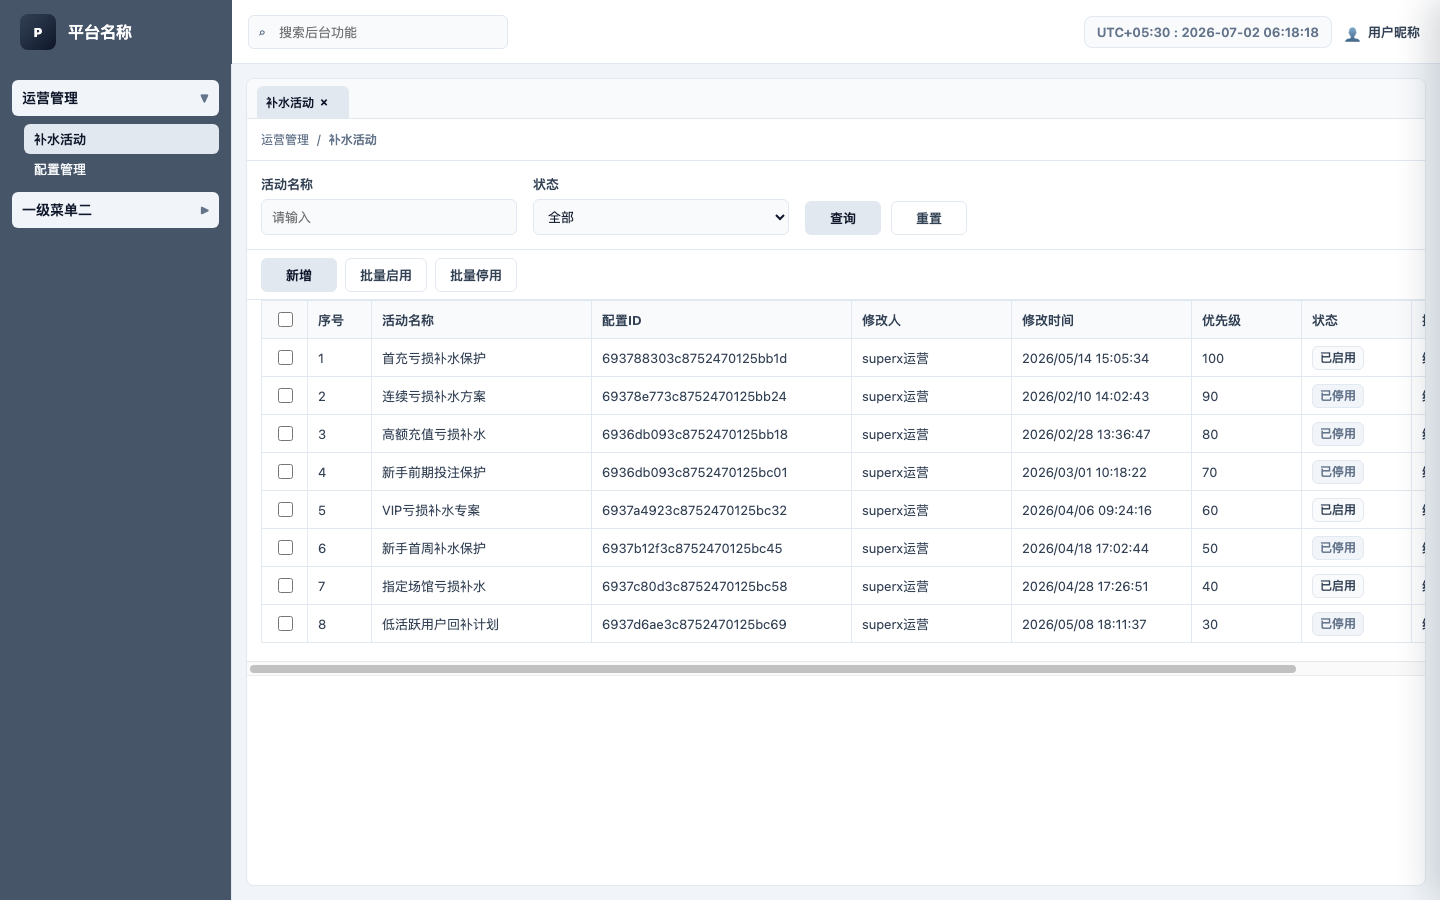
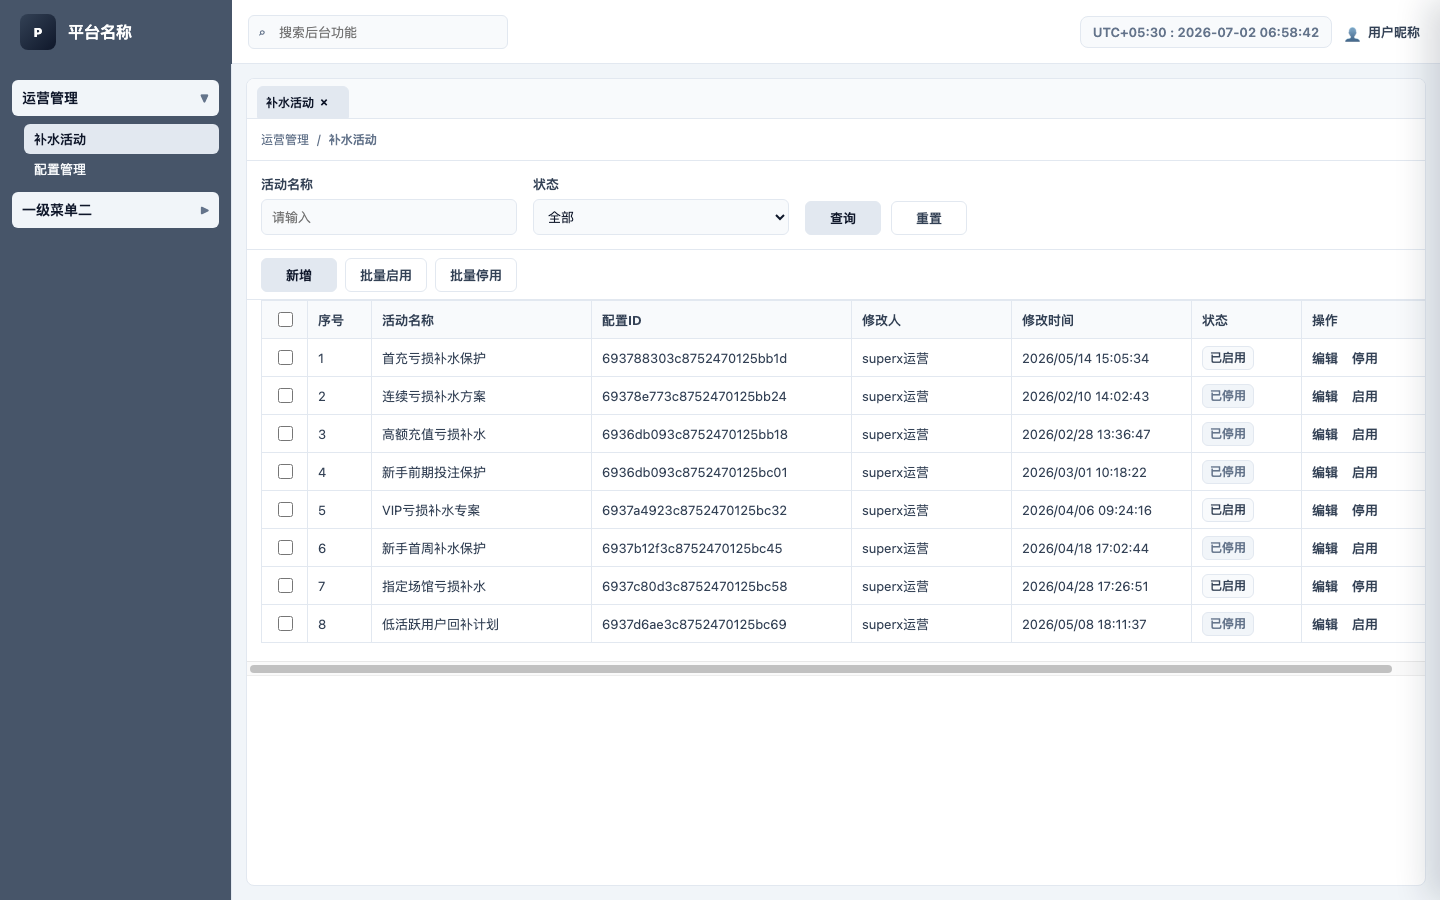
Refine Rescue_Bonus_Campaign configuration UI

diff --git a/Rescue_Bonus_Campaign/outputs/admin-config-replica.html b/Rescue_Bonus_Campaign/outputs/admin-config-replica.html
@@ -466,6 +466,10 @@
     .field-size-5 { grid-column: span 5; }
     .field-size-6 { grid-column: span 6; }
 
+    .field[hidden] {
+      display: none;
+    }
+
     .field label {
       display: block;
       margin-bottom: 6px;
@@ -890,6 +894,10 @@
       overflow: hidden;
     }
 
+    .rule-box.has-floating-tip {
+      overflow: visible;
+    }
+
     .rule-head {
       min-height: 38px;
       display: flex;
@@ -984,6 +992,10 @@
       padding: 0 12px;
     }
 
+    .subsidy-rule-table th.has-help {
+      overflow: visible;
+    }
+
     .subsidy-rule-table input {
       height: 32px;
       font-size: 13px;
@@ -1041,7 +1053,7 @@
       visibility: hidden;
       transform: translate(-50%, 4px);
       transition: opacity .18s ease, transform .18s ease, visibility .18s ease;
-      z-index: 20;
+      z-index: 1000;
       pointer-events: none;
     }
 
@@ -1502,20 +1514,19 @@
                 <th style="width: 260px;">配置ID</th>
                 <th style="width: 160px;">修改人</th>
                 <th style="width: 180px;">修改时间</th>
-                <th style="width: 110px;">优先级</th>
                 <th style="width: 110px;">状态</th>
                 <th style="width: 140px;">操作</th>
               </tr>
             </thead>
             <tbody>
-              <tr data-status="enabled"><td class="select-cell"><input class="row-check" type="checkbox" aria-label="选择第 1 行"></td><td>1</td><td>首充亏损补水保护</td><td>693788303c8752470125bb1d</td><td>superx运营</td><td>2026/05/14 15:05:34</td><td>100</td><td><span class="status-pill">已启用</span></td><td><div class="row-actions"><button class="action-link edit-row" type="button">编辑</button><button class="action-link toggle-status" type="button">停用</button></div></td></tr>
-              <tr data-status="disabled"><td class="select-cell"><input class="row-check" type="checkbox" aria-label="选择第 2 行"></td><td>2</td><td>连续亏损补水方案</td><td>69378e773c8752470125bb24</td><td>superx运营</td><td>2026/02/10 14:02:43</td><td>90</td><td><span class="status-pill is-disabled">已停用</span></td><td><div class="row-actions"><button class="action-link edit-row" type="button">编辑</button><button class="action-link toggle-status" type="button">启用</button></div></td></tr>
-              <tr data-status="disabled"><td class="select-cell"><input class="row-check" type="checkbox" aria-label="选择第 3 行"></td><td>3</td><td>高额充值亏损补水</td><td>6936db093c8752470125bb18</td><td>superx运营</td><td>2026/02/28 13:36:47</td><td>80</td><td><span class="status-pill is-disabled">已停用</span></td><td><div class="row-actions"><button class="action-link edit-row" type="button">编辑</button><button class="action-link toggle-status" type="button">启用</button></div></td></tr>
-              <tr data-status="disabled"><td class="select-cell"><input class="row-check" type="checkbox" aria-label="选择第 4 行"></td><td>4</td><td>新手前期投注保护</td><td>6936db093c8752470125bc01</td><td>superx运营</td><td>2026/03/01 10:18:22</td><td>70</td><td><span class="status-pill is-disabled">已停用</span></td><td><div class="row-actions"><button class="action-link edit-row" type="button">编辑</button><button class="action-link toggle-status" type="button">启用</button></div></td></tr>
-              <tr data-status="enabled"><td class="select-cell"><input class="row-check" type="checkbox" aria-label="选择第 5 行"></td><td>5</td><td>VIP亏损补水专案</td><td>6937a4923c8752470125bc32</td><td>superx运营</td><td>2026/04/06 09:24:16</td><td>60</td><td><span class="status-pill">已启用</span></td><td><div class="row-actions"><button class="action-link edit-row" type="button">编辑</button><button class="action-link toggle-status" type="button">停用</button></div></td></tr>
-              <tr data-status="disabled"><td class="select-cell"><input class="row-check" type="checkbox" aria-label="选择第 6 行"></td><td>6</td><td>新手首周补水保护</td><td>6937b12f3c8752470125bc45</td><td>superx运营</td><td>2026/04/18 17:02:44</td><td>50</td><td><span class="status-pill is-disabled">已停用</span></td><td><div class="row-actions"><button class="action-link edit-row" type="button">编辑</button><button class="action-link toggle-status" type="button">启用</button></div></td></tr>
-              <tr data-status="enabled"><td class="select-cell"><input class="row-check" type="checkbox" aria-label="选择第 7 行"></td><td>7</td><td>指定场馆亏损补水</td><td>6937c80d3c8752470125bc58</td><td>superx运营</td><td>2026/04/28 17:26:51</td><td>40</td><td><span class="status-pill">已启用</span></td><td><div class="row-actions"><button class="action-link edit-row" type="button">编辑</button><button class="action-link toggle-status" type="button">停用</button></div></td></tr>
-              <tr data-status="disabled"><td class="select-cell"><input class="row-check" type="checkbox" aria-label="选择第 8 行"></td><td>8</td><td>低活跃用户回补计划</td><td>6937d6ae3c8752470125bc69</td><td>superx运营</td><td>2026/05/08 18:11:37</td><td>30</td><td><span class="status-pill is-disabled">已停用</span></td><td><div class="row-actions"><button class="action-link edit-row" type="button">编辑</button><button class="action-link toggle-status" type="button">启用</button></div></td></tr>
+              <tr data-status="enabled"><td class="select-cell"><input class="row-check" type="checkbox" aria-label="选择第 1 行"></td><td>1</td><td>首充亏损补水保护</td><td>693788303c8752470125bb1d</td><td>superx运营</td><td>2026/05/14 15:05:34</td><td><span class="status-pill">已启用</span></td><td><div class="row-actions"><button class="action-link edit-row" type="button">编辑</button><button class="action-link toggle-status" type="button">停用</button></div></td></tr>
+              <tr data-status="disabled"><td class="select-cell"><input class="row-check" type="checkbox" aria-label="选择第 2 行"></td><td>2</td><td>连续亏损补水方案</td><td>69378e773c8752470125bb24</td><td>superx运营</td><td>2026/02/10 14:02:43</td><td><span class="status-pill is-disabled">已停用</span></td><td><div class="row-actions"><button class="action-link edit-row" type="button">编辑</button><button class="action-link toggle-status" type="button">启用</button></div></td></tr>
+              <tr data-status="disabled"><td class="select-cell"><input class="row-check" type="checkbox" aria-label="选择第 3 行"></td><td>3</td><td>高额充值亏损补水</td><td>6936db093c8752470125bb18</td><td>superx运营</td><td>2026/02/28 13:36:47</td><td><span class="status-pill is-disabled">已停用</span></td><td><div class="row-actions"><button class="action-link edit-row" type="button">编辑</button><button class="action-link toggle-status" type="button">启用</button></div></td></tr>
+              <tr data-status="disabled"><td class="select-cell"><input class="row-check" type="checkbox" aria-label="选择第 4 行"></td><td>4</td><td>新手前期投注保护</td><td>6936db093c8752470125bc01</td><td>superx运营</td><td>2026/03/01 10:18:22</td><td><span class="status-pill is-disabled">已停用</span></td><td><div class="row-actions"><button class="action-link edit-row" type="button">编辑</button><button class="action-link toggle-status" type="button">启用</button></div></td></tr>
+              <tr data-status="enabled"><td class="select-cell"><input class="row-check" type="checkbox" aria-label="选择第 5 行"></td><td>5</td><td>VIP亏损补水专案</td><td>6937a4923c8752470125bc32</td><td>superx运营</td><td>2026/04/06 09:24:16</td><td><span class="status-pill">已启用</span></td><td><div class="row-actions"><button class="action-link edit-row" type="button">编辑</button><button class="action-link toggle-status" type="button">停用</button></div></td></tr>
+              <tr data-status="disabled"><td class="select-cell"><input class="row-check" type="checkbox" aria-label="选择第 6 行"></td><td>6</td><td>新手首周补水保护</td><td>6937b12f3c8752470125bc45</td><td>superx运营</td><td>2026/04/18 17:02:44</td><td><span class="status-pill is-disabled">已停用</span></td><td><div class="row-actions"><button class="action-link edit-row" type="button">编辑</button><button class="action-link toggle-status" type="button">启用</button></div></td></tr>
+              <tr data-status="enabled"><td class="select-cell"><input class="row-check" type="checkbox" aria-label="选择第 7 行"></td><td>7</td><td>指定场馆亏损补水</td><td>6937c80d3c8752470125bc58</td><td>superx运营</td><td>2026/04/28 17:26:51</td><td><span class="status-pill">已启用</span></td><td><div class="row-actions"><button class="action-link edit-row" type="button">编辑</button><button class="action-link toggle-status" type="button">停用</button></div></td></tr>
+              <tr data-status="disabled"><td class="select-cell"><input class="row-check" type="checkbox" aria-label="选择第 8 行"></td><td>8</td><td>低活跃用户回补计划</td><td>6937d6ae3c8752470125bc69</td><td>superx运营</td><td>2026/05/08 18:11:37</td><td><span class="status-pill is-disabled">已停用</span></td><td><div class="row-actions"><button class="action-link edit-row" type="button">编辑</button><button class="action-link toggle-status" type="button">启用</button></div></td></tr>
             </tbody>
           </table>
         </div>
@@ -1530,11 +1541,19 @@
       <button class="icon-close" id="closeDrawerButton" type="button">×</button>
     </div>
     <div class="drawer-body">
-      <div class="context-note">适用条件：用户没有第一次提现时。配置逻辑：系统先校验累计可补次数、限定对象、首充后 N 天和游戏范围等触发限制，再按用户首充金额匹配充值区间；当用户余额达到对应触发余额时，按区间配置补水到用户钱包；发放后的补水礼金需满足打码倍率后才可提现。</div>
+      <div class="context-note">适用条件：用户没有第一次提现时。配置逻辑：系统先校验参与条件、累计可补次数、首充后 N 天和游戏范围等触发限制，再按用户累计充值金额匹配充值区间；当用户余额达到对应触发余额时，按区间配置补水到用户钱包；发放后的补水礼金需满足打码倍率后才可提现。</div>
       <div class="section-title">基本信息</div>
       <div class="form-grid">
         <div class="field"><label class="required">活动名称</label><input id="drawerConfigName" value="首充亏损补水保护"></div>
-        <div class="field"><label class="required">用户参与优先级<span class="summary-hint">数值越大用户参与优先级越高</span></label><input id="drawerPriority" value="100"></div>
+        <div class="field"><label class="required">礼金倍率</label><div class="unit-input"><input value="10.00"><span class="unit">倍</span></div></div>
+        <div class="field"><label class="required">礼金使用范围</label><select id="bonusScopeSelect"><option selected>无限制</option><option>指定场馆</option><option>指定游戏</option></select></div>
+        <div class="field" id="bonusScopeValueField" hidden>
+          <label class="required">使用范围值</label>
+          <div class="multi-select" id="bonusScopeValueMulti">
+            <button class="multi-trigger" id="bonusScopeValueTrigger" type="button">请选择</button>
+            <div class="multi-menu" id="bonusScopeValueMenu"></div>
+          </div>
+        </div>
       </div>
 
       <div class="section-title">参与条件</div>
@@ -1572,7 +1591,7 @@
       </div>
 
       <div class="section-title">规则配置</div>
-      <div class="rule-box">
+      <div class="rule-box has-floating-tip">
         <div class="rule-body">
           <div class="rule-subtitle">基础规则配置</div>
           <div class="rule-summary">
@@ -1583,14 +1602,6 @@
             <div class="rule-summary-item">
               <label class="required">累计可补次数</label>
               <div class="unit-input"><input value="5"><span class="unit">次</span></div>
-            </div>
-            <div class="rule-summary-item">
-              <label class="required">礼金倍率</label>
-              <div class="unit-input"><input value="10.00"><span class="unit">倍</span></div>
-            </div>
-            <div class="rule-summary-item">
-              <label class="required">限定对象</label>
-              <select><option>单一用户ID</option><option>单一IP</option><option>单一设备</option></select>
             </div>
             <div class="rule-summary-item">
               <label class="required">游戏范围</label>
@@ -1609,7 +1620,7 @@
             <thead>
               <tr>
                 <th style="width: 210px;">充值区间<span class="th-hint">（【最小值】≤【X】＜【最大值】）</span></th>
-                <th style="width: 120px;">触发余额<span class="help-tip" tabindex="0" data-tip="触发余额指的是用户的锁定钱包和可提现钱包的和，且需要考虑游戏范围，非指定产生的消耗导致的余额低于配置，则不命中规则。">?</span></th>
+                <th class="has-help" style="width: 120px;">触发余额<span class="help-tip" tabindex="0" data-tip="触发余额指的是用户的锁定钱包和可提现钱包的和，且需要考虑游戏范围，非指定产生的消耗导致的余额低于配置，则不命中规则。">?</span></th>
                 <th style="width: 120px;">补水金额</th>
                 <th style="width: 100px;">可补次数</th>
                 <th style="width: 70px;">操作</th>
@@ -1883,10 +1894,55 @@
       button.addEventListener("click", () => {
         const cells = button.closest("tr").children;
         document.getElementById("drawerConfigName").value = cells[2].textContent.trim();
-        document.getElementById("drawerPriority").value = cells[6].textContent.trim();
         openDrawer();
       });
     });
+    const bonusScopeSelect = document.getElementById("bonusScopeSelect");
+    const bonusScopeValueField = document.getElementById("bonusScopeValueField");
+    const bonusScopeValueMulti = document.getElementById("bonusScopeValueMulti");
+    const bonusScopeValueTrigger = document.getElementById("bonusScopeValueTrigger");
+    const bonusScopeValueMenu = document.getElementById("bonusScopeValueMenu");
+    const bonusScopeValueMap = {
+      "指定场馆": ["Slot", "Casino", "Fishing", "Fantasy", "Sports"],
+      "指定游戏": ["Fortune Tiger", "Mines", "Aviator", "Super Ace", "Dragon Hatch"]
+    };
+    function selectedBonusScopeValues() {
+      return Array.from(bonusScopeValueMenu.querySelectorAll("input:checked")).map(input => input.value);
+    }
+    function syncBonusScopeSummary() {
+      const selected = selectedBonusScopeValues();
+      bonusScopeValueTrigger.textContent = selected.length <= 2 ? selected.join("、") : `${selected.slice(0, 2).join("、")} +${selected.length - 2}`;
+      bonusScopeValueTrigger.title = selected.join("、");
+    }
+    function renderBonusScopeValues() {
+      const values = bonusScopeValueMap[bonusScopeSelect.value] || [];
+      bonusScopeValueField.hidden = values.length === 0;
+      bonusScopeValueMenu.innerHTML = "";
+      values.forEach((value, index) => {
+        const label = document.createElement("label");
+        label.className = "multi-option";
+        label.innerHTML = `<input type="checkbox" value="${value}" ${index === 0 ? "checked" : ""}> <span>${value}</span>`;
+        bonusScopeValueMenu.appendChild(label);
+      });
+      if (!values.length) {
+        bonusScopeValueTrigger.textContent = "请选择";
+        bonusScopeValueTrigger.title = "";
+        bonusScopeValueMulti.classList.remove("is-open");
+        return;
+      }
+      syncBonusScopeSummary();
+    }
+    bonusScopeSelect.addEventListener("change", renderBonusScopeValues);
+    bonusScopeValueTrigger.addEventListener("click", event => {
+      event.stopPropagation();
+      bonusScopeValueMulti.classList.toggle("is-open");
+    });
+    bonusScopeValueMenu.addEventListener("click", event => event.stopPropagation());
+    bonusScopeValueMenu.addEventListener("change", syncBonusScopeSummary);
+    document.addEventListener("click", event => {
+      if (!event.target.closest("#bonusScopeValueMulti")) bonusScopeValueMulti.classList.remove("is-open");
+    });
+    renderBonusScopeValues();
     const gameScopeSelect = document.getElementById("gameScopeSelect");
     const gameScopeValueMulti = document.getElementById("gameScopeValueMulti");
     const gameScopeValueTrigger = document.getElementById("gameScopeValueTrigger");

diff --git a/Rescue_Bonus_Campaign/work/admin-visual-generation-skill-draft.md b/Rescue_Bonus_Campaign/work/admin-visual-generation-skill-draft.md
@@ -186,6 +186,7 @@
 - 右侧抽屉默认关闭，不在首屏自动展开；只有用户点击新增、编辑等明确触发操作后才打开。
 - 抽屉表单默认按四个一级区块拆分：基本信息、参与条件、规则配置、前台展示；具体字段优先映射到这四类，不随意新增一级类目。
 - 参与资格、开关和条件矩阵归入参与条件；策略、阈值、倍率、次数、范围、区间矩阵归入规则配置；客户端展示名称、多语言、宣传文案、展示素材归入前台展示。
+- 用户标签、风险排除、会员资格等用于判断用户是否可参与的对象条件，应放入参与条件矩阵；不要在规则配置中重复做“限定对象”类基础字段。
 - 同一规则块内部若同时包含整体规则和明细参数，应拆成轻量小模块标题，例如基础规则配置、区间参数配置，不额外套大卡片。
 - 表单字段使用两列网格优先，复杂字段、说明、富文本、图片预览等使用整行。
 - 必填字段用灰阶星号或必填标识，不引入彩色提示。
@@ -193,7 +194,9 @@
 - 当页面存在全局适用前提、参与资格或规则范围时，应在基础信息上方用克制提示条展示，避免把前提散落到多个字段里。
 - 当配置逻辑涉及适用对象、触发条件、执行结果和限制条件时，可在顶部提示条中用一段简洁说明串联完整逻辑，帮助用户先理解配置如何生效；skill 记录只保留“逻辑说明结构”，不记录具体业务文案。
 - 顶部逻辑说明必须区分限制作用对象：触发限制用于判断规则是否生效，发放后要求用于说明奖励、礼金、权益等到账后的使用或提现条件，不能把两者混写成同一个对象的限制。
+- 发放后使用范围与触发规则范围是不同语义：前者描述奖励、礼金、权益到账后的可使用范围，优先放在基本信息或奖励基础属性中；后者描述规则是否命中的范围，放在规则配置中。
 - 范围类字段应成对展示范围类型和范围值；范围类型决定范围值的选项集合。
+- 范围类型存在“无限制”选项时，默认隐藏第二级范围值；选择指定对象后再展示第二级范围值，并按一级类型重置默认选项。
 - 当范围值支持选择多个对象时，第二级范围值控件应使用多选组件，展示已选摘要，并在一级范围变化时重置为该范围下的合理默认选项。
 - 多选下拉不要直接暴露原生复选框样式；应使用整行可点击选项、定制灰阶勾选标记和简洁已选摘要，避免视觉粗糙拥挤。
 - 条件配置和策略配置优先使用「规则块 + 小表格 + 行级新增 / 删除按钮」表达，不用大卡片堆叠。
@@ -205,9 +208,10 @@
 - 区间阈值触发类配置应使用规则矩阵表达：左侧是对象区间或分层区间，中间是触发阈值，右侧是发放值、附加要求和触发次数；每一行代表一条完整规则。
 - 区间字段需要在表头或字段说明中明确边界包含关系，例如最小值是否包含、最大值是否排除，避免配置人员误解。
 - 表格列或字段存在复杂口径、命中边界、计算范围、排除条件等说明时，优先在字段名或表头后放带底色的问号 tooltip；悬浮展示完整说明，避免把长解释直接铺在表格里。
+- Tooltip、下拉层、浮层说明必须高于当前组件层级展示，并检查父容器 `overflow` 是否会裁切；必要时为承载区开启可见溢出或使用独立浮层层级。
 - 当规则存在可触发次数、可领取次数、可补次数等次数限制时，次数列必须作为规则矩阵的独立列展示，不能隐藏在说明或折叠区域中。
 - 当同时存在整体累计次数和单行规则次数时，整体累计次数放在规则矩阵上方作为独立字段，单行次数保留在矩阵列中，二者不要混用。
-- 作用于整组规则的整体限制、倍率、比例、范围等字段应放在规则块的基础规则配置中，不放在页面基础信息或每一行明细规则里。
+- 作用于触发判断的整体限制、范围等字段应放在规则块的基础规则配置中，不放在每一行明细规则里；如果倍率、比例等字段描述的是发放后要求或活动基础属性，则可放在基本信息中。
 - 规则块的基础规则配置字段较多时，使用两列网格布局，字段顺序按业务触发顺序、限制优先级和配置阅读路径排列。
 - 规则块基础配置的两列字段应使用标准字段结构：标签在上、控件在下，单位内置或贴近控件右侧；不要把标签、输入框、单位强行挤在同一行导致左右列起点不齐。
 - 内容编辑器、富文本工具条、自定义说明、短操作按钮等局部编辑场景不强制撑满父容器；应使用内容自适应宽度或合理最大宽度，避免控件被拉得过长。

diff --git a/Rescue_Bonus_Campaign/work/admin-visual-skill-steps.md b/Rescue_Bonus_Campaign/work/admin-visual-skill-steps.md
@@ -257,12 +257,15 @@
 - 右侧抽屉默认关闭，不在首屏自动展开；只有用户点击新增、编辑等明确触发操作后才打开。
 - 抽屉内复杂配置默认按四个一级区块拆分：基本信息、参与条件、规则配置、前台展示；具体字段优先映射到这四类，不随意新增一级类目。
 - 参与资格、开关和条件矩阵归入参与条件；策略、阈值、倍率、次数、范围、区间矩阵归入规则配置；客户端展示名称、多语言、宣传文案、展示素材归入前台展示。
+- 用户标签、风险排除、会员资格等用于判断用户是否可参与的对象条件，应放入参与条件矩阵；不要在规则配置中重复做“限定对象”类基础字段。
 - 同一规则块内部若同时包含整体规则和明细参数，应拆成轻量小模块标题，例如基础规则配置、区间参数配置，不额外套大卡片。
 - 当业务当前只有一种类型或无需用户选择类型时，不展示类型下拉字段，也不在列表中展示类型列。
 - 当页面存在全局适用前提、参与资格或规则范围时，应在基础信息上方用克制提示条展示，避免把前提散落到多个字段里。
 - 当配置逻辑涉及适用对象、触发条件、执行结果和限制条件时，可在顶部提示条中用一段简洁说明串联完整逻辑，帮助用户先理解配置如何生效；skill 记录只保留“逻辑说明结构”，不记录具体业务文案。
 - 顶部逻辑说明必须区分限制作用对象：触发限制用于判断规则是否生效，发放后要求用于说明奖励、礼金、权益等到账后的使用或提现条件，不能把两者混写成同一个对象的限制。
+- 发放后使用范围与触发规则范围是不同语义：前者描述奖励、礼金、权益到账后的可使用范围，优先放在基本信息或奖励基础属性中；后者描述规则是否命中的范围，放在规则配置中。
 - 范围类字段应成对展示范围类型和范围值；范围类型决定范围值的选项集合。
+- 范围类型存在“无限制”选项时，默认隐藏第二级范围值；选择指定对象后再展示第二级范围值，并按一级类型重置默认选项。
 - 当范围值支持选择多个对象时，第二级范围值控件应使用多选组件，展示已选摘要，并在一级范围变化时重置为该范围下的合理默认选项。
 - 多选下拉不要直接暴露原生复选框样式；应使用整行可点击选项、定制灰阶勾选标记和简洁已选摘要，避免视觉粗糙拥挤。
 - 条件配置行需要采用紧凑表格化布局：表头展示「条件类型 / 条件值 / 操作」，下一行展示条件类型下拉、运算符下拉、数值输入和单位；右侧操作列固定较窄宽度，用于新增或删除条件。
@@ -273,9 +276,10 @@
 - 区间阈值触发类配置应使用规则矩阵表达：左侧是对象区间或分层区间，中间是触发阈值，右侧是发放值、附加要求和触发次数；每一行代表一条完整规则。
 - 区间字段需要在表头或字段说明中明确边界包含关系，例如最小值是否包含、最大值是否排除，避免配置人员误解。
 - 表格列或字段存在复杂口径、命中边界、计算范围、排除条件等说明时，优先在字段名或表头后放带底色的问号 tooltip；悬浮展示完整说明，避免把长解释直接铺在表格里。
+- Tooltip、下拉层、浮层说明必须高于当前组件层级展示，并检查父容器 `overflow` 是否会裁切；必要时为承载区开启可见溢出或使用独立浮层层级。
 - 当规则存在可触发次数、可领取次数、可补次数等次数限制时，次数列必须作为规则矩阵的独立列展示，不能隐藏在说明或折叠区域中。
 - 当同时存在整体累计次数和单行规则次数时，整体累计次数放在规则矩阵上方作为独立字段，单行次数保留在矩阵列中，二者不要混用。
-- 作用于整组规则的整体限制、倍率、比例、范围等字段应放在规则块的基础规则配置中，不放在页面基础信息或每一行明细规则里。
+- 作用于触发判断的整体限制、范围等字段应放在规则块的基础规则配置中，不放在每一行明细规则里；如果倍率、比例等字段描述的是发放后要求或活动基础属性，则可放在基本信息中。
 - 规则块的基础规则配置字段较多时，使用两列网格布局，字段顺序按业务触发顺序、限制优先级和配置阅读路径排列。
 - 规则块基础配置的两列字段应使用标准字段结构：标签在上、控件在下，单位内置或贴近控件右侧；不要把标签、输入框、单位强行挤在同一行导致左右列起点不齐。
 - 内容编辑器、富文本工具条、自定义说明、短操作按钮等局部编辑场景不强制撑满父容器；应使用内容自适应宽度或合理最大宽度，避免控件被拉得过长。